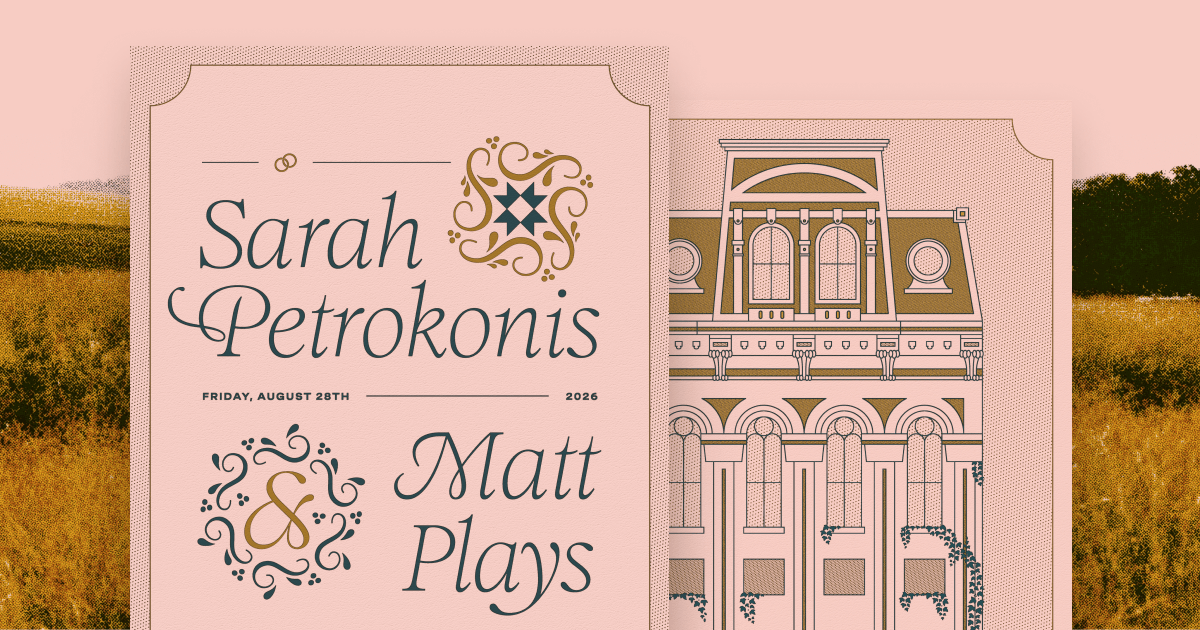
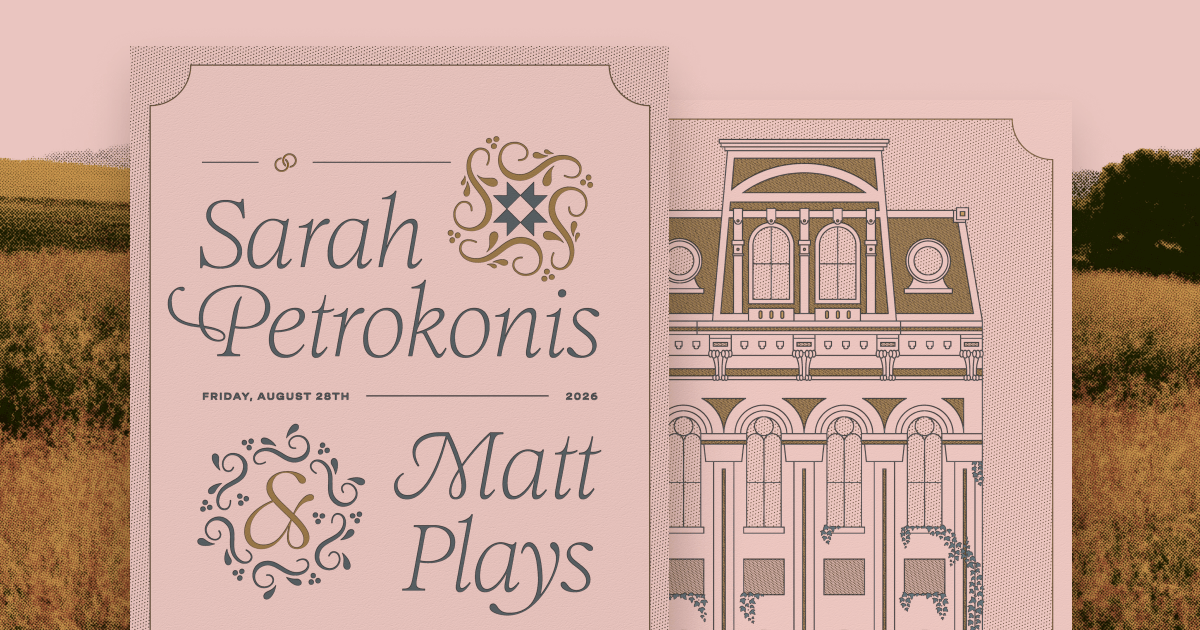
Serve the current OG image colourway and drop the duplicate copies
The site was still sharing the old teal/gold meta image. Three copies of
the artwork existed in the repo and the served one was not the copy that
had been updated:

  public/images/wedding-site--meta-image.png  new colourway (a35919d)
  app/opengraph-image.png / twitter-image.png old colourway (795c2cb)

layout.tsx referenced the public/ copy, but Next's app/opengraph-image
file convention silently overrides an `images` entry in the metadata
object, so the stale pair is what actually shipped. Verified against the
built HTML rather than assuming.

Copy the new colourway over both app/ files and remove the now-redundant
`images` entry so the file convention is the single source of truth —
two places to update is what let these drift apart to begin with.

No manual cache bust is needed: Next hashes file contents into the
emitted URL, so replacing the file changes the URL and forces scrapers
and the CDN to re-fetch. Confirmed by rebuilding against both images:

  old -> /opengraph-image.png?479c91c2838fb7cc
  new -> /opengraph-image.png?15925b5fcc4db2be

Also add metadataBase so the emitted URLs are absolute on the real
domain (scrapers reject relative ones), declare summary_large_image for
Twitter/X, and supply alt text via the .alt.txt convention.

diff --git a/app/layout.tsx b/app/layout.tsx
@@ -4,20 +4,25 @@ import { ThemeProvider } from "@/context/ThemeContext";
 import { Analytics } from "@vercel/analytics/next";
 
 export const metadata: Metadata = {
+  metadataBase: new URL("https://sarahandmatt.wedding"),
   title: "Sarah & Matt — August 28, 2026",
   description: "Join us as we celebrate our wedding at Excelsior, Lancaster, PA.",
+  // The share image itself is NOT listed here. It comes from the app/opengraph-image.png
+  // and app/twitter-image.png file conventions, which always win over an `images` entry
+  // in this object — listing it in both places let the two copies drift apart, which is
+  // how the old colourway kept getting served. Next hashes the file's contents into the
+  // emitted URL, so replacing the file busts every downstream cache on its own.
   openGraph: {
+    type: "website",
+    url: "https://sarahandmatt.wedding",
     title: "Sarah & Matt — August 28, 2026",
     description: "Join us as we celebrate our wedding at Excelsior, Lancaster, PA.",
     siteName: "sarahandmatt.wedding",
-    images: [
-      {
-        url: "/images/wedding-site--meta-image.png",
-        width: 1200,
-        height: 630,
-        alt: "Sarah Petrokonis & Matt Plays — Friday, August 28th, 2026",
-      },
-    ],
+  },
+  twitter: {
+    card: "summary_large_image",
+    title: "Sarah & Matt — August 28, 2026",
+    description: "Join us as we celebrate our wedding at Excelsior, Lancaster, PA.",
   },
 };
 
@@ -27,8 +32,13 @@ export default function RootLayout({
   children: React.ReactNode;
 }>) {
   return (
-    <html lang="en">
+    <html lang="en" style={{ backgroundColor: "#EAC5C0" }}>
       <head>
+        {/* Blush is hard-coded here rather than read from --blush on purpose: this
+            inline style paints the first frame, which happens before globals.css
+            has been parsed and therefore before any custom property exists. Without
+            it the browser paints its default white canvas first. Keep in sync with
+            --blush in globals.css. */}
         {/* Preload invite card SVG colour maps — InviteCanvas needs both before
             it can decode textures and signal onReady, so fetching early cuts the
             visible loading-bar time. */}
